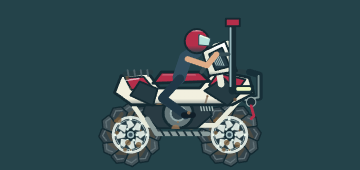
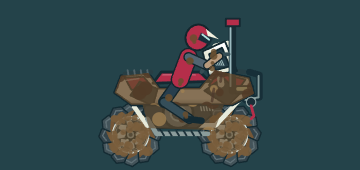
m

Changed region(s): [[0.275, 0.1471, 0.7028, 0.9412]]

diff --git a/assets/games/mudline/game.js b/assets/games/mudline/game.js
@@ -16,7 +16,10 @@
     { id: 'pearl', name: 'Pearl on Chrome', body: '#f4f4dd', trim: '#be4b4b', rim: '#e2eced', frame: '#d2dfe1', lift: 1.15, length: 135, mass: 6.1, snorkel: true },
     { id: 'violet', name: 'Violet Highrise', body: '#f2f2ec', trim: '#7654bc', rim: '#9571d6', frame: '#7654bc', lift: 1.2, length: 138, mass: 6.3, snorkel: true },
     { id: 'silverback', name: 'Silverback Lift', body: '#dce6df', trim: '#263b3e', rim: '#37484a', frame: '#d2ddd7', lift: 1.2, length: 139, mass: 6.8, snorkel: true },
-    { id: 'paddle', name: 'Paddle Monster', body: '#ebebe0', trim: '#303f41', rim: '#e6e9df', frame: '#e7e9df', lift: 1.3, length: 145, mass: 7.1, snorkel: true, disc: true }
+    { id: 'paddle', name: 'Paddle Monster', body: '#ebebe0', trim: '#303f41', rim: '#e6e9df', frame: '#e7e9df', lift: 1.3, length: 145, mass: 7.1, snorkel: true, disc: true },
+    { id: 'volt-mx', name: 'Volt MX', body: '#eeeae3', trim: '#d85244', rim: '#b8c4c7', frame: '#84969c', lift: .6, length: 140, mass: 4.5, bike: true },
+    { id: 'flux-trail', name: 'Flux Trail', body: '#273a43', trim: '#b8ce73', rim: '#b5bec3', frame: '#344d59', lift: .52, length: 124, mass: 3.8, bike: true },
+    { id: 'tundra', name: 'Tundra Snowmobile', body: '#e6edf0', trim: '#de704a', rim: '#a5babf', frame: '#8ca4ad', lift: .6, length: 180, mass: 7.5, snow: true }
   ];
   const defaults = { vehicle: 'highwater', power: 110, spring: 55, damping: 55, lift: 52, radius: 34, snorkel: 75, tires: 'mud', assist: true };
   const saved = read('mudline-tune-v1', {});
@@ -43,6 +46,7 @@
   let customMaps = read('mudline-maps-v1', []);
   customMaps = Array.isArray(customMaps) ? customMaps.filter(validMap).slice(0,20) : [];
   let map = makeMap('bog'), engine, chassis, wheels = [], springs = [], particles = [];
+  let rider;const remoteRiders=new Map();
   let endless=false,endlessLead=0,streamed=new Map(),lastStream=-999,flood=0,stalled=false,intakeClearance=999;
   const endlessSample=i=>MudEndless.sample(Math.max(0,i-endlessLead));
   let bestEndless=Number(read('mudline-endless-best-v1',0))||0;
@@ -79,7 +83,9 @@
     $('mapLabel').textContent = map.name;
   }
   function spawn(x) {
+    rider=MudRider.create();remoteRiders.clear();
     const v = rig(), r = tune.radius, lift = tune.lift * v.lift;
+    MudAudio.setVehicle(v.bike?'electric':v.snow?'snow':'atv');
     const y = terrainY(x) - r - lift - 15;
     const group = Body.nextGroup(true);
     chassis = Bodies.rectangle(x, y, v.length, 27, { chamfer: { radius: 9 }, friction: .5, frictionAir: .003, collisionFilter: { group }, label: 'chassis' });
@@ -103,17 +109,18 @@
   function simulate() {
     if(MudMultiplayer.blocked())release();
     if(endless)streamTerrain(chassis.position.x);
-    const intake=MudEndless.intake(chassis.position,chassis.angle,tune.snorkel,rig().length,rig().sxs),level=fluidLevel(intake.x);
+    const intake=MudEndless.intake(chassis.position,chassis.angle,rig().bike?30:rig().snow?55:tune.snorkel,rig().length,rig().sxs),level=fluidLevel(intake.x);
     intakeClearance=level===null?999:level-intake.y;
     flood=clamp(flood+(intakeClearance<0?.018:-.009),0,1);
-    if(flood>=1&&!stalled){stalled=true;toast('Engine flooded. Recover to the last dry checkpoint.');}
+    if(flood>=1&&!stalled){stalled=true;toast(rig().bike?'Water ingress. Recover the bike.':'Engine flooded. Recover to the last dry checkpoint.');}
     const gas = inputs.gas&&!stalled ? 1 : 0;
     const reverse = inputs.brake && !stalled && chassis.velocity.x < .6 ? -.45 : 0;
     const power = tune.power / 110, type = surfaceAt(chassis.position.x);
     const contacts = wheels.map(groundContact);
     wheels.forEach((wheel, i) => {
       const material = surfaceAt(wheel.position.x), grip = tune.tires === 'mud' ? { trail:1, mud:.85, water:.65, sand:.55 } : tune.tires === 'paddle' ? { trail:.65, mud:.95, water:.85, sand:1 } : { trail:1.15, mud:.32, water:.3, sand:.55 };
-      const drive = (gas + reverse)*(MudMultiplayer.controls().awd||i===0?1:0)*(MudMultiplayer.controls().diff?1.08:1);
+      const singleDrive=rig().bike||rig().snow;
+      const drive = (gas + reverse)*(singleDrive?(i===0?1.7:0):(MudMultiplayer.controls().awd||i===0?1:0))*(MudMultiplayer.controls().diff?1.08:1);
       if (contacts[i]) {
         Body.applyForce(wheel, wheel.position, { x: drive * .006 * power * grip[material] * (34 / tune.radius), y: 0 });
         Body.setAngularVelocity(wheel, clamp(wheel.angularVelocity + drive * .016 * power, -.3, .7));
@@ -125,12 +132,13 @@
       if (contacts[i]) Body.applyForce(wheel, wheel.position, { x: -wheel.velocity.x * drag, y: 0 });
       wheel.friction = grip[material];
       const spin=Math.abs(wheel.angularVelocity)*tune.radius;
-      if(contacts[i]&&(Math.abs(wheel.velocity.x)>.3||spin>1)&&stepCount%2===0){
-        const muddy=material==='mud',wet=material==='water',count=muddy?5:wet?4:2;
+      if((contacts[i]||immersion>.15)&&(Math.abs(wheel.velocity.x)>.3||spin>1)){
+        const muddy=material==='mud',wet=material==='water',count=muddy?12:wet?18:2;
         const direction=wheel.velocity.x<-.1?-1:1;
-        for(let j=0;j<count;j++)particles.push({x:wheel.position.x-direction*tune.radius*.65,y:wheel.position.y+tune.radius*.55,vx:-direction*(2+Math.random()*5+spin*.22),vy:-2-Math.random()*(muddy?8:5)-spin*.12,life:45+Math.random()*20,maxLife:65,size:muddy?2+Math.random()*5:1+Math.random()*3,material});
-        if(muddy)dirt[tune.vehicle]=clamp(dirt[tune.vehicle]+.0025+spin*.00009,0,1);
-        if(wet)dirt[tune.vehicle]=Math.max(0,dirt[tune.vehicle]-.003);
+        const sprayY=immersion>.15?Math.min(wheel.position.y+tune.radius*.5,fluidLevel(wheel.position.x)+10):wheel.position.y+tune.radius*.55;
+        for(let j=0;j<count;j++)particles.push({x:wheel.position.x-direction*tune.radius*.65+(Math.random()-.5)*14,y:sprayY,vx:-direction*(3+Math.random()*8+spin*.35),vy:-3-Math.random()*(muddy?12:16)-spin*.2,life:50+Math.random()*25,maxLife:75,size:muddy?3+Math.random()*7:1+Math.random()*4,material});
+        if(muddy)dirt[tune.vehicle]=clamp(dirt[tune.vehicle]+.012+spin*.0005,0,1);
+        if(wet)dirt[tune.vehicle]=Math.max(0,dirt[tune.vehicle]-.0008);
         if(material==='sand')dirt[tune.vehicle]=clamp(dirt[tune.vehicle]+.0004,0,1);
       }
     });
@@ -143,9 +151,10 @@
     if (inputs.down || (inputs.brake && !reverse)) chassis.torque += .9;
     if (type === 'water') Body.applyForce(chassis, chassis.position, { x: -chassis.velocity.x * .0005, y: -.001 });
     const bodyLevel=fluidLevel(chassis.position.x);
-    if(bodyLevel!==null){const submerged=clamp((chassis.position.y+18-bodyLevel)/60,0,1);Body.applyForce(chassis,chassis.position,{x:-chassis.velocity.x*.0016*submerged,y:-chassis.mass*.00028*submerged});if(submerged>.1)dirt[tune.vehicle]=clamp(dirt[tune.vehicle]+.003,0,1);}
+    if(bodyLevel!==null){const submerged=clamp((chassis.position.y+18-bodyLevel)/60,0,1);Body.applyForce(chassis,chassis.position,{x:-chassis.velocity.x*.0016*submerged,y:-chassis.mass*.00028*submerged});if(submerged>.1&&type==='mud')dirt[tune.vehicle]=clamp(dirt[tune.vehicle]+.012,0,1);}
     Body.applyForce(chassis,chassis.position,MudMultiplayer.forces(chassis.position));
     Engine.update(engine, 1000/60);
+    rider.step({vx:chassis.velocity.x,vy:chassis.velocity.y,angle:chassis.angle});
     if (contacts[0] && !contacts[1] && chassis.angle < -.14 && chassis.angle > -1.5 && Math.abs(chassis.velocity.x) > .5) wheelieTime += 1/60;
     else { if (wheelieTime > bestWheelie) { bestWheelie = wheelieTime; write('mudline-best-v1', bestWheelie); } wheelieTime = 0; }
     if (chassis.position.x > checkpoint + 700 && type === 'trail' && Math.abs(chassis.angle) < .4) checkpoint = chassis.position.x;
@@ -153,7 +162,7 @@
     if (!endless && chassis.position.x > LENGTH - 220 && !finished) { finished = true; toast('TRAIL COMPLETE! Choose a new map or keep riding.'); }
     if(endless&&stepCount%120===0){bestEndless=Math.max(bestEndless,Math.round((chassis.position.x-180)/12));write('mudline-endless-best-v1',bestEndless);}
     if (Math.abs(chassis.angle) > 2 && stepCount % 180 === 0) toast('Rolled over? Use Recover to get back on the trail.');
-    if (particles.length > 320) particles.splice(0, particles.length - 320);
+    const particleLimit=width<740?700:1100;if(particles.length>particleLimit)particles.splice(0,particles.length-particleLimit);
     particles.forEach(p => { p.x += p.vx; p.y += p.vy; p.vx*=.99;p.vy += .24; p.life--;if(p.y>terrainY(p.x)){p.y=terrainY(p.x)+1;p.vx*=.45;p.vy=0;p.life-=2;} }); particles = particles.filter(p => p.life > 0);
     if(stepCount%120===0)write('mudline-dirt-v1',dirt);
     stepCount++;
@@ -207,20 +216,21 @@
     }
     line(c,[[-a+6,-16],[-a+24,-17]],'#ffffff70',2);
   }
-  function drawRig(c,v,bodyPosition,angle,wheelPositions,r,wheelAngles,remote=null) {
+  function drawRig(c,v,bodyPosition,angle,wheelPositions,r,wheelAngles,remote=null,riderPose=null) {
     const toWorld = p => Vector.add(bodyPosition,Vector.rotate(p,angle));
     wheelPositions.forEach((w,i) => {
       const anchor = toWorld({x:(i?1:-1)*v.length*.4,y:5});
       line(c,[[anchor.x,anchor.y],[w.x,w.y]],'#182f36',8);
       const dx=w.x-anchor.x,dy=w.y-anchor.y,len=Math.hypot(dx,dy), nx=-dy/len,ny=dx/len;
       const zig=[[anchor.x,anchor.y]]; for(let s=1;s<10;s++) zig.push([anchor.x+dx*s/10+nx*(s%2?4:-4),anchor.y+dy*s/10+ny*(s%2?4:-4)]); zig.push([w.x,w.y]); line(c,zig,v.frame,3);
-      if(remote)MudModels.wheel(c,w.x,w.y,r,wheelAngles[i],v,remote.tires,remote.dirt);else wheelArt(c,w.x,w.y,r,wheelAngles[i],v);
+      if(!v.snow){if(remote)MudModels.wheel(c,w.x,w.y,r,wheelAngles[i],v,remote.tires,remote.dirt);else wheelArt(c,w.x,w.y,r,wheelAngles[i],v);}
     });
-    c.save();c.translate(bodyPosition.x,bodyPosition.y);c.rotate(angle);if(remote)MudModels.body(c,v,remote.dirt);else bodyArt(c,v);c.restore();
+    if(v.snow)MudModels.track(c,wheelPositions,r,angle,v,wheelAngles[0],remote?remote.dirt:dirt[v.id]||0);
+    c.save();c.translate(bodyPosition.x,bodyPosition.y);c.rotate(angle);if(remote)MudModels.body(c,v,remote.dirt);else bodyArt(c,v);MudRider.draw(c,riderPose,v,remote?remote.dirt:dirt[v.id]||0);c.restore();
   }
   function thumbnail(target,v) {
     target.width=360;target.height=170;const c=target.getContext('2d');c.fillStyle='#24434a';c.fillRect(0,0,360,170);
-    const scale=Math.min(v.sxs?1.1:1.25,145/(tune.snorkel+80));c.save();c.translate(180,160-59*scale);c.scale(scale,scale);drawRig(c,{...v,snorkelHeight:tune.snorkel},{x:0,y:0},0,[{x:-v.length*.4,y:32},{x:v.length*.4,y:32}],27,[0,0]);c.restore();
+    const scale=Math.min(v.sxs?1.1:1.25,145/((v.bike||v.snow?80:tune.snorkel)+80));c.save();c.translate(180,160-59*scale);c.scale(scale,scale);drawRig(c,{...v,snorkelHeight:tune.snorkel},{x:0,y:0},0,[{x:-v.length*.4,y:32},{x:v.length*.4,y:32}],27,[0,0]);c.restore();
   }
   function scenery() {
     const theme = mapInfo[map.theme];ctx.fillStyle=theme.sky;ctx.fillRect(0,0,width,height);
@@ -266,7 +276,7 @@
         for(let x=60;x<330;x+=85){line(ctx,[[x,478],[x+55,478]],'#eee3b3',3);circle(ctx,x+15,353,4,'#fff1a6');}
         if(MudMultiplayer.active())for(let x=360;x<1560;x+=180){line(ctx,[[x-65,478],[x+65,478]],'#eee3b3',3);line(ctx,[[x+85,478],[x+85,350]],'#b7c6b4',3);circle(ctx,x+85,346,5,'#fff1a6');}
       }
-      drawRig(ctx,rig(),chassis.position,chassis.angle,wheels.map(w=>w.position),tune.radius,wheels.map(w=>w.angle));
+      drawRig(ctx,rig(),chassis.position,chassis.angle,wheels.map(w=>w.position),tune.radius,wheels.map(w=>w.angle),null,rider.points());
       if(MudMultiplayer.controls().lights){ctx.fillStyle='#fff3a432';poly(ctx,[[chassis.position.x+60,chassis.position.y-10],[chassis.position.x+320,chassis.position.y-45],[chassis.position.x+320,chassis.position.y+60]],'#fff3a432',null);}
       MudMultiplayer.draw(ctx);
       if(endless)for(let i=start;i<end;i++){const s=at(i);if(s.level!==null){poly(ctx,[[i*STEP,s.level],[(i+1)*STEP,s.level],[(i+1)*STEP,at(i+1).height],[i*STEP,s.height]],s.material==='water'?'#4aa0b16b':'#715737a8',null);line(ctx,[[i*STEP+5,s.level+Math.sin(time*2+i)*2],[i*STEP+32,s.level]],s.material==='water'?'#a2dedb':'#a1895d',2);}}
@@ -286,9 +296,11 @@
   function openPanel(kind){if(MudMultiplayer.active()){toast('Leave the park before changing your build or map.');return;}release();activePanel=kind;$('panelTitle').textContent={garage:'The garage',maps:'Find your next trail',editor:'Build a trail'}[kind];$('panelEyebrow').textContent={garage:'EIGHT RIGS. YOUR BUILD.',maps:'MUD / WATER / SAND',editor:'MAP CREATOR'}[kind];if(kind==='garage')garage();if(kind==='maps')maps();if(kind==='editor')editorPanel();if(!panel.open)panel.showModal();icons();}
   function garage(){
     garageSnapshot={...tune};
+    $('panelEyebrow').textContent='ELEVEN BUILDS. YOUR RIDE.';
     $('panelContent').innerHTML=`<div class="garage"><div class="vehicle-grid">${vehicles.map(v=>`<button class="vehicle-card ${v.id===tune.vehicle?'selected':''}" data-vehicle="${v.id}"><canvas aria-label="${v.name}"></canvas><span>${v.name}</span></button>`).join('')}</div><div class="tuning"><h2 id="tuneName">${rig().name}</h2>${[['power','Engine power',60,200,'%'],['spring','Spring stiffness',15,95,'%'],['damping','Shock damping',10,90,'%'],['lift','Suspension lift',30,78,''],['radius','Wheel size',25,48,'in']].map(([id,label,min,max,unit])=>`<label><span>${label}<output id="out-${id}">${tune[id]}${unit}</output></span><input type="range" data-tune="${id}" data-unit="${unit}" min="${min}" max="${max}" value="${tune[id]}" aria-label="${label}"></label>`).join('')}<label><span>Tire type</span><select id="tireType"><option value="mud">Deep-lug mud tires</option><option value="paddle">Paddle tires</option><option value="trail">All-terrain tires</option></select></label><label class="check"><input id="assist" type="checkbox" ${tune.assist?'checked':''}>Assisted wheelies</label><button class="ride-button" id="applyTune"><i data-lucide="check"></i>Apply build & ride</button></div></div>`;
     document.querySelectorAll('[data-vehicle]').forEach(b=>{thumbnail(b.querySelector('canvas'),vehicles.find(v=>v.id===b.dataset.vehicle));b.onclick=()=>{tune.vehicle=b.dataset.vehicle;document.querySelectorAll('[data-vehicle]').forEach(el=>el.classList.toggle('selected',el===b));$('tuneName').textContent=rig().name;};});
     const snorkel=document.createElement('label');snorkel.innerHTML=`<span>Snorkel height<output id="out-snorkel">${tune.snorkel}</output></span><input type="range" data-tune="snorkel" data-unit="" min="45" max="180" value="${tune.snorkel}" aria-label="Snorkel height">`;document.querySelector('.tuning').insertBefore(snorkel,$('tireType').parentElement);
+    const intakeControl=()=>{snorkel.hidden=!!(rig().bike||rig().snow);};document.querySelectorAll('[data-vehicle]').forEach(b=>b.addEventListener('click',intakeControl));intakeControl();
     document.querySelectorAll('[data-tune]').forEach(el=>el.oninput=()=>{tune[el.dataset.tune]=Number(el.value);$('out-'+el.dataset.tune).textContent=el.value+el.dataset.unit;if(el.dataset.tune==='snorkel')document.querySelectorAll('[data-vehicle]').forEach(b=>thumbnail(b.querySelector('canvas'),vehicles.find(v=>v.id===b.dataset.vehicle)));});
     const wash=document.createElement('button');wash.textContent='Wash vehicle';wash.className='ride-button';wash.onclick=()=>{dirt[tune.vehicle]=0;write('mudline-dirt-v1',dirt);document.querySelectorAll('[data-vehicle]').forEach(b=>thumbnail(b.querySelector('canvas'),vehicles.find(v=>v.id===b.dataset.vehicle)));toast('Washed and ready');};document.querySelector('.tuning').append(wash);
     $('tireType').value=tune.tires;$('tireType').onchange=e=>tune.tires=e.target.value;$('assist').onchange=e=>tune.assist=e.target.checked;
@@ -336,8 +348,8 @@
     snapshot:controls=>({x:chassis.position.x,y:chassis.position.y,angle:chassis.angle,vx:chassis.velocity.x,vy:chassis.velocity.y,wheels:wheels.map(w=>({x:w.position.x,y:w.position.y,angle:w.angle})),throttle:inputs.gas,braking:inputs.brake,...controls,stalled,dirt:dirt[tune.vehicle],terrain:surfaceAt(chassis.position.x)}),
     enter:(kind,x=180)=>{endless=kind==='endless';endlessLead=27;map=makeMap(endless?'bog':kind);if(endless)map.name='Endless Backcountry';else for(let i=0;i<38;i++){map.heights[i]=480+(map.heights[i]-480)*clamp((i-32)/6,0,1);map.surfaces[i]='trail';}editing=false;paused=false;checkpoint=180;$('editorBar').hidden=true;$('driveControls').hidden=false;$('balance').hidden=false;release();createWorld(x);},
     exit:()=>{release();},
-    drawRemote:(c,build,s)=>{const v={...vehicles.find(v=>v.id===build.vehicle),snorkelHeight:build.snorkel};drawRig(c,v,s,s.angle,s.wheels,build.radius,s.wheels.map(w=>w.angle),{tires:build.tires,dirt:s.dirt});}
+    drawRemote:(c,build,s,id)=>{const v={...vehicles.find(v=>v.id===build.vehicle),snorkelHeight:build.snorkel},now=performance.now();let puppet=remoteRiders.get(id);if(!puppet){puppet={rig:MudRider.create(),at:now};remoteRiders.set(id,puppet);}puppet.rig.step(s,(now-puppet.at)/1000);puppet.at=now;for(const [key,p]of remoteRiders)if(now-p.at>5000)remoteRiders.delete(key);drawRig(c,v,s,s.angle,s.wheels,build.radius,s.wheels.map(w=>w.angle),{tires:build.tires,dirt:s.dirt},puppet.rig.points());}
   });
   addEventListener('resize',resize);resize();createWorld();icons();requestAnimationFrame(loop);
-  window.mudline = { state:()=>({x:chassis.position.x,y:chassis.position.y,angle:chassis.angle,speed:chassis.velocity.x,vehicle:tune.vehicle,dirt:dirt[tune.vehicle],particles:particles.length,muted:MudAudio.isMuted(),tune:{...tune},editing,paused,endless,flood,stalled,intakeClearance,groundBodies:streamed.size,map:map.name,savedMaps:customMaps.length,terrain:map.heights.slice(),surfaces:map.surfaces.slice(),wheels:wheels.map(w=>({x:w.position.x,y:w.position.y}))}), vehicles, thumbnail };
+  window.mudline = { state:()=>({x:chassis.position.x,y:chassis.position.y,angle:chassis.angle,speed:chassis.velocity.x,vehicle:tune.vehicle,rider:rider.points(),dirt:dirt[tune.vehicle],particles:particles.length,muted:MudAudio.isMuted(),tune:{...tune},editing,paused,endless,flood,stalled,intakeClearance,groundBodies:streamed.size,map:map.name,savedMaps:customMaps.length,terrain:map.heights.slice(),surfaces:map.surfaces.slice(),wheels:wheels.map(w=>({x:w.position.x,y:w.position.y}))}), vehicles, thumbnail };
 })();

diff --git a/assets/games/mudline/models.js b/assets/games/mudline/models.js
@@ -5,8 +5,38 @@ window.MudModels = (() => {
   function line(c,p,color,w){c.beginPath();p.forEach(([x,y],i)=>i?c.lineTo(x,y):c.moveTo(x,y));c.strokeStyle=color;c.lineWidth=w;c.lineJoin='round';c.lineCap='round';c.stroke();}
   function disc(c,x,y,r,color,stroke,w=2){c.beginPath();c.arc(x,y,r,0,Math.PI*2);c.fillStyle=color;c.fill();if(stroke){c.strokeStyle=stroke;c.lineWidth=w;c.stroke();}}
   function shade(c,color,y1,y2){const g=c.createLinearGradient(0,y1,0,y2);g.addColorStop(0,'#ffffff');g.addColorStop(.18,color);g.addColorStop(.72,color);g.addColorStop(1,'#31444c');return g;}
-  function stains(c,shape,amount,seed=0){if(amount<.01)return;c.save();c.beginPath();shape.forEach(([x,y],i)=>i?c.lineTo(x,y):c.moveTo(x,y));c.closePath();c.clip();for(let i=0;i<90*amount;i++){const x=Math.sin(i*173.3+seed)*105,y=Math.cos(i*92.1)*38-8;disc(c,x,y,1+(i%5)*.85,i%3?'#66503ce0':'#987555d9');if(i%6===0)line(c,[[x,y],[x-2,y+7]],'#66503c99',2);}c.restore();}
+  function stains(c,shape,amount,seed=0){if(amount<.01)return;c.save();c.beginPath();shape.forEach(([x,y],i)=>i?c.lineTo(x,y):c.moveTo(x,y));c.closePath();c.clip();c.fillStyle=`rgba(100,74,43,${amount*.76})`;c.fillRect(-160,-150,320,250);for(let i=0;i<180*amount;i++){const x=Math.sin(i*173.3+seed)*130,y=Math.cos(i*92.1)*65-15;disc(c,x,y,2+(i%7)*1.1,i%3?'#513b27de':'#a08052cb');if(i%5===0)line(c,[[x,y],[x-2,y+13]],'#4e392bbc',3);}c.restore();}
+  function bike(c,v,dirt){
+    const a=v.length/2;
+    line(c,[[-a*.8,30],[-22,7],[23,18],[a*.77,30]],'#96a6a7',5);
+    line(c,[[-25,-20],[-36,17],[15,22],[28,-38],[-25,-20],[15,22]],v.frame,6);
+    path(c,[[-19,-19],[20,-30],[13,10],[-14,8]],shade(c,'#384750',-30,20));
+    for(let i=0;i<6;i++)line(c,[[-14,-12+i*3],[8,-15+i*3]],'#7a8c90',1);
+    disc(c,-6,17,11,'#465a62',ink,2);disc(c,-6,17,5,'#93a4a5');
+    line(c,[[24,-35],[a*.8,29]],'#d4ddda',5);line(c,[[31,-18],[a*.8,29]],'#9daeb0',2);
+    line(c,[[25,-34],[28,-53],[43,-54]],'#435d67',4);
+    const shell=[[-a,-24],[-a+10,-33],[-13,-31],[15,-43],[31,-36],[24,-13],[-6,-17],[-26,-23]];
+    path(c,shell,shade(c,v.body,-45,-10),ink,2);path(c,[[-15,-28],[12,-40],[23,-33],[15,-18]],v.trim);
+    path(c,[[-a+9,-33],[-15,-35],[-8,-29],[-a+4,-26]],'#182d35');
+    path(c,[[27,-31],[a+5,-27],[a+16,-21],[a-6,-20],[31,-23]],v.body);
+    line(c,[[-a*.75,25],[-6,17]],'#171f23',2);line(c,[[-a*.75,30],[-6,24]],'#7a898c',1);
+    line(c,[[-10,27],[3,27]],'#c0cac5',4);path(c,[[28,-47],[43,-46],[43,-36],[31,-36]],v.body);
+    stains(c,shell,dirt,v.length);stains(c,[[-35,-10],[28,-16],[30,29],[-35,30]],dirt,3);
+  }
+  function snow(c,v,dirt){
+    const shell=[[-92,-13],[-83,-31],[-27,-32],[0,-55],[55,-48],[90,-17],[75,-4],[-65,8]];
+    line(c,[[-81,16],[40,16],[76,29]],'#778f98',5);
+    path(c,shell,shade(c,v.body,-57,10),ink,3);
+    path(c,[[-78,-31],[-25,-35],[5,-29],[-8,-16],[-77,-17]],'#1d3039');
+    path(c,[[3,-49],[19,-71],[35,-67],[39,-44]],'#8ec6cf99','#76959a',2);
+    path(c,[[14,-40],[57,-40],[78,-19],[46,-12]],v.trim);
+    for(let i=0;i<5;i++)line(c,[[23+i*6,-33],[34+i*6,-21]],'#263e46',3);
+    line(c,[[54,-36],[70,-28]],'#fff3b9',5);line(c,[[-1,-39],[2,-53],[18,-54]],'#253e49',4);
+    stains(c,shell,dirt,7);
+  }
   function body(c,v,dirt=0){
+    if(v.bike)return bike(c,v,dirt);
+    if(v.snow)return snow(c,v,dirt);
     const a=v.length/2;
     const shell=[[-a-4,-13],[-a+3,-31],[-a+32,-34],[-22,-18],[21,-18],[a-29,-37],[a+8,-29],[a+13,-12],[a-10,0],[-a+14,0]];
     // Chassis, exposed engine, radiator and footboards.
@@ -46,7 +76,6 @@ window.MudModels = (() => {
     if(v.sxs){
       path(c,[[-a+12,-17],[-a+18,-89],[a-25,-89],[a-7,-15]],'#91cfd334',null);
       path(c,[[12,-21],[12,-49],[34,-52],[38,-17]],'#1c303b');
-      line(c,[[25,-40],[36,-56],[49,-48]],'#dfb291',5);disc(c,36,-66,10,v.trim,ink);path(c,[[39,-70],[47,-68],[45,-61],[38,-62]],'#bfdeda',null);
       line(c,[[-a+7,-9],[-a+15,-91],[a-26,-91],[a-6,-10]],v.frame,7);
       line(c,[[-18,-88],[-16,-8]],v.frame,5);
       line(c,[[-a+10,-13],[-a+55,-86]],'#368989',3);
@@ -60,10 +89,6 @@ window.MudModels = (() => {
     }else{
       if(v.backrest)line(c,[[-32,-29],[-40,-60],[-52,-60]],'#21363f',10);
       line(c,[[23,-35],[36,-54],[52,-54]],'#364d54',4);
-      line(c,[[-1,-29],[6,-50],[17,-57]],'#314f60',14);line(c,[[8,-49],[29,-42],[39,-54]],'#dfad87',6);
-      line(c,[[0,-28],[-19,-7],[6,11]],'#203847',9);line(c,[[4,11],[14,11]],'#101e28',6);
-      disc(c,18,-68,13,shade(c,v.trim,-82,-56),ink,2);
-      path(c,[[20,-75],[33,-71],[31,-63],[20,-64]],'#b7e3dd','#28434d',1);line(c,[[22,-74],[30,-71]],'#f4ffea',1.5);
     }
     line(c,[[-a+8,-26],[-a+22,-28]],'#ffffffa0',1.5);
     stains(c,shell,dirt,v.length);
@@ -71,6 +96,7 @@ window.MudModels = (() => {
     if(v.sxs)stains(c,[[-a+17,-33],[a-18,-33],[a-9,-6],[-a+10,-6]],dirt,2);
   }
   function wheel(c,x,y,r,angle,v,tire,dirt){c.save();c.translate(x,y);c.rotate(angle);
+    if(v.bike){disc(c,0,0,r,'#1a262b',ink,2);for(let i=0;i<28;i++){c.save();c.rotate(i*Math.PI/14);line(c,[[-2,-r],[2,-r]],dirt>.3?'#7d5c36':'#455259',4);line(c,[[0,-5],[0,-r*.79]],'#b3c0c1',.8);c.restore();}disc(c,0,0,r*.8,'#00000000','#95a7a8',2);disc(c,0,0,6,v.rim,ink,1);if(dirt>.1){c.strokeStyle=`rgba(126,93,53,${dirt*.8})`;c.lineWidth=r*.22;c.beginPath();c.arc(0,0,r*.85,0,Math.PI*2);c.stroke();}c.restore();return;}
     const g=c.createRadialGradient(-r*.3,-r*.4,2,0,0,r);g.addColorStop(0,'#58676c');g.addColorStop(.68,'#26353d');g.addColorStop(1,'#111f28');disc(c,0,0,r,g,ink,2);
     const n=tire==='paddle'?9:tire==='mud'?12:20;
     for(let i=0;i<n;i++){c.save();c.rotate(i/n*Math.PI*2);path(c,[[-8,-r+8],[-9,-r-2],[-2,-r-7],[6,-r-4],[9,-r+5],[2,-r+10]],i%2?'#34444b':'#435359',ink,1.5);line(c,[[-6,-r+1],[-1,-r-3],[5,-r]],'#617177',1.4);if(dirt>.08)line(c,[[-5,-r+7],[3,-r+3]],`rgba(116,86,54,${dirt})`,4);c.restore();}
@@ -78,8 +104,15 @@ window.MudModels = (() => {
     for(let i=0;i<8;i++){c.save();c.rotate(i*Math.PI/4);if(!v.disc){path(c,[[-3,-5],[-5,-r*.54],[0,-r*.6],[5,-10]],shade(c,v.rim,-r,0),ink,.6);line(c,[[0,-r*.53],[1,-12]],'#e6f7ec',1);}disc(c,0,-r*.63,1.4,'#ecf7ee');c.restore();}
     disc(c,0,0,r*.18,'#a5bec0',ink,2);disc(c,0,0,r*.08,'#354d58');
     for(let i=0;i<6;i++)disc(c,Math.cos(i*Math.PI/3)*r*.25,Math.sin(i*Math.PI/3)*r*.25,1.4,'#dceee6');
-    if(dirt>0)for(let i=0;i<dirt*22;i++)disc(c,Math.sin(i*17)*r*.6,Math.cos(i*9)*r*.6,1+i%3,'#795d3bc9');
+    if(dirt>0){disc(c,0,0,r*.7,`rgba(103,75,41,${dirt*.68})`);for(let i=0;i<dirt*45;i++)disc(c,Math.sin(i*17)*r*.7,Math.cos(i*9)*r*.7,2+i%4,'#795d3bdb');}
     c.restore();
   }
-  return {body,wheel};
+  function track(c,positions,r,angle,v,spin,dirt){
+    c.save();c.translate(positions[0].x,positions[0].y);c.rotate(angle);
+    c.beginPath();c.roundRect(-50,-20,111,r+20,20);c.fillStyle='#1b282d';c.fill();c.strokeStyle=dirt>.2?'#816039':'#455b61';c.lineWidth=6;c.stroke();
+    for(let i=0;i<6;i++)disc(c,-36+i*16,r-15,9,'#354c56','#8c9fa1',2);
+    for(let i=0;i<14;i++){const x=-51+(i*9+spin*9)%117;line(c,[[x,r-2],[x+3,r+5]],dirt>.3?'#8b693c':'#506269',4);}c.restore();
+    c.save();c.translate(positions[1].x,positions[1].y);c.rotate(angle);line(c,[[0,-18],[8,r-2]],'#b4c4c2',5);line(c,[[-33,r-2],[32,r-2],[44,r-13]],v.trim,7);line(c,[[-30,r+1],[33,r+1]],'#192c33',3);c.restore();
+  }
+  return {body,wheel,track};
 })();

diff --git a/assets/games/mudline/rider.js b/assets/games/mudline/rider.js
@@ -1,0 +1,39 @@
+/* Cosmetic articulated Matter rig: it cannot destabilize the vehicle solver. */
+window.MudRider=(()=>{
+  const {Engine,Bodies,Body,Composite,Constraint}=Matter;
+  const rest=[{x:0,y:-27},{x:9,y:-51},{x:19,y:-72},{x:29,y:-42},{x:42,y:-52},{x:-17,y:-3},{x:10,y:15}];
+  function create(){
+    const engine=Engine.create({gravity:{x:0,y:0},constraintIterations:5});
+    const nodes=rest.map((p,i)=>{const b=Bodies.circle(p.x,p.y,i===2?10:4,{collisionFilter:{mask:0},frictionAir:.09});Body.setMass(b,.15);return b;});
+    const joints=[[0,1],[1,2],[1,3],[3,4],[0,5],[5,6]].map(([a,b])=>Constraint.create({bodyA:nodes[a],bodyB:nodes[b],length:Math.hypot(rest[a].x-rest[b].x,rest[a].y-rest[b].y),stiffness:.85,damping:.18}));
+    const anchors=[0,4,6].map(i=>Constraint.create({pointA:{...rest[i]},bodyB:nodes[i],length:0,stiffness:i===0?.35:.055,damping:.15}));
+    Composite.add(engine.world,[...nodes,...joints,...anchors]);let last={vx:0,vy:0,angle:0},accumulator=0;
+    return {points:()=>nodes.map(n=>({...n.position})),step(s,dt=1/60){
+      accumulator+=Math.min(.05,dt);const ax=Math.max(-8,Math.min(8,(s.vx||0)-last.vx)),ay=Math.max(-8,Math.min(8,(s.vy||0)-last.vy));
+      const pitch=Math.atan2(Math.sin(s.angle-last.angle),Math.cos(s.angle-last.angle));
+      while(accumulator>=1/60){
+        const loose=Math.abs(Math.sin(s.angle))>.7||Math.abs(pitch)>.1;
+        anchors[1].stiffness=loose?.006:.055;anchors[2].stiffness=loose?.008:.065;
+        for(const node of nodes){const fx=-ax*.00013+Math.sin(s.angle)*.00008-pitch*.0008,fy=-ay*.00013+Math.cos(s.angle)*.00008;Body.applyForce(node,node.position,{x:fx,y:fy});}
+        Engine.update(engine,1000/60);accumulator-=1/60;
+        for(let i=0;i<nodes.length;i++)if(!Number.isFinite(nodes[i].position.x)||Math.hypot(nodes[i].position.x,nodes[i].position.y)>155){Body.setPosition(nodes[i],rest[i]);Body.setVelocity(nodes[i],{x:0,y:0});}
+      }
+      last={vx:s.vx||0,vy:s.vy||0,angle:s.angle};
+    }};
+  }
+  function draw(c,points,v,dirt=0){
+    const p=points||rest;
+    const limb=(a,b,color,w)=>{c.beginPath();c.moveTo(p[a].x,p[a].y);c.lineTo(p[b].x,p[b].y);c.strokeStyle='#13262d';c.lineWidth=w+3;c.lineCap='round';c.stroke();c.strokeStyle=color;c.lineWidth=w;c.stroke();};
+    c.save();if(v.sxs)c.translate(14,-3);
+    limb(0,5,'#273e4d',10);limb(5,6,'#354e59',8);
+    limb(0,1,v.trim,17);limb(1,3,'#526571',8);limb(3,4,'#b79a7d',6);
+    c.strokeStyle='#132a33';c.lineWidth=7;c.beginPath();c.moveTo(p[6].x-3,p[6].y);c.lineTo(p[6].x+13,p[6].y+2);c.stroke();
+    const h=p[2];c.save();c.translate(h.x,h.y);c.rotate(Math.atan2(p[1].y-h.y,p[1].x-h.x)-Math.PI/2);
+    c.fillStyle=v.trim;c.strokeStyle='#13262d';c.lineWidth=2;c.beginPath();c.ellipse(0,0,13,14,0,0,Math.PI*2);c.fill();c.stroke();
+    c.fillStyle='#172e39';c.fillRect(1,-6,14,8);c.strokeStyle='#b4e2df';c.lineWidth=2;c.beginPath();c.moveTo(3,-5);c.lineTo(12,-3);c.stroke();
+    c.fillStyle=v.body;c.beginPath();c.moveTo(4,-12);c.lineTo(21,-8);c.lineTo(9,-6);c.fill();c.restore();
+    if(dirt>.1){c.fillStyle=`rgba(105,77,46,${dirt*.85})`;for(let i=0;i<14*dirt;i++){const q=p[i%p.length];c.beginPath();c.arc(q.x+Math.sin(i*9)*6,q.y+Math.cos(i*7)*5,2+i%3,0,Math.PI*2);c.fill();}}
+    c.restore();
+  }
+  return {create,draw};
+})();

diff --git a/assets/games/mudline/multiplayer.css b/assets/games/mudline/multiplayer.css
@@ -1,1 +1,3 @@
 #socialPanel{width:min(700px,calc(100% - 24px))}#socialPanel h1{font-size:24px}#socialError{color:#ffb6a5;font-size:13px}.park-menu{display:grid;grid-template-columns:1fr 1fr;gap:12px}.park-menu button{min-height:70px}.park-form{display:grid;grid-template-columns:1fr 1fr;gap:16px}.park-form label{display:grid;gap:8px;font-size:13px}.park-form input:not([type=checkbox]),#chatText{min-width:0;width:100%;padding:10px;background:#203d43;border:1px solid #718e8f;color:white;border-radius:4px}.park-form select{width:100%}.park-form .ride-button{grid-column:1/-1}.park-check{display:flex!important;flex-direction:row;align-items:center;gap:8px;font-size:13px}.park-check input{accent-color:#d9eb83;width:20px;height:20px}.park-actions{display:flex;flex-wrap:wrap;gap:8px;margin-bottom:16px}.rider-row{display:flex;flex-wrap:wrap;gap:6px;padding:14px 0;border-top:1px solid #44636a}.rider-row strong{flex-basis:100%;font-size:13px}.rider-row button{font-size:12px}.server-row{width:100%;margin:5px 0}.build-inspect{display:grid;grid-template-columns:1fr 1fr;gap:12px}.build-inspect dd{margin:0;color:#d9eb83}#activities{display:flex;gap:6px;flex-wrap:wrap}#parkPlayers{position:absolute;right:16px;top:120px;max-width:260px;background:#123239df;border-radius:6px;padding:8px}#parkPlayers button{font-size:12px;min-height:32px;padding:6px;background:transparent;border:0}#parkPlayers small{display:block;font-size:10px;max-height:45px;overflow:auto;color:#bdd7d0;padding:4px}#parkChat{position:absolute;left:16px;top:125px;width:240px;background:#123239d9;border-radius:6px;padding:8px}#chatLog{max-height:100px;overflow:auto;font-size:11px;line-height:1.5;overflow-wrap:anywhere}#chatForm{display:flex;gap:4px;margin-top:5px}#chatText{font-size:12px;touch-action:manipulation}#chatForm button{min-height:34px;padding:6px}#endlessMode{margin:0 0 16px}.hud nav button{flex-shrink:0}@media(max-width:740px){.telemetry small{display:none}.hud{gap:6px}.hud nav{gap:2px}.hud nav button{width:32px;padding:5px}#parkPlayers{top:104px;right:10px;max-width:180px}#parkChat{top:160px;width:200px;left:10px}#chatLog{max-height:60px}}@media(max-width:480px){#parkPlayers{top:139px;max-width:175px}#parkChat{top:214px;width:180px}.park-form{grid-template-columns:1fr}.park-menu{grid-template-columns:1fr 1fr}#socialPanel{padding:14px}}@media(max-height:520px){#parkChat{top:130px;width:180px}#chatLog{max-height:35px}#parkPlayers{top:104px;max-width:180px}}
+#parkPlayers output{display:block;font-size:10px;color:#e9d796;padding:4px;overflow-wrap:anywhere}
+@media(min-width:741px){.garage{grid-template-columns:minmax(0,1.35fr) minmax(260px,1fr)}.vehicle-grid{grid-template-columns:repeat(3,minmax(0,1fr));align-content:start}.vehicle-card canvas{height:auto;aspect-ratio:36/17}.vehicle-card span{min-height:28px;display:flex;align-items:center;text-align:center}.vehicle-card{justify-content:flex-start}}

diff --git a/assets/games/mudline/audio.js b/assets/games/mudline/audio.js
@@ -1,5 +1,6 @@
 window.MudAudio = (()=>{
   let context,master,engine,sub,filter,noise,terrainFilter,terrainGain;
+  let vehicle='atv';
   let muted=false;try{muted=localStorage.getItem('mudline-muted')==='1';}catch{}
   function start(){if(!context){
     const Audio=window.AudioContext||window.webkitAudioContext;if(!Audio)return;
@@ -10,7 +11,7 @@ window.MudAudio = (()=>{
     const buffer=context.createBuffer(1,context.sampleRate*2,context.sampleRate);const data=buffer.getChannelData(0);for(let i=0;i<data.length;i++)data[i]=Math.random()*2-1;
     noise=context.createBufferSource();noise.buffer=buffer;noise.loop=true;terrainFilter=context.createBiquadFilter();terrainFilter.type='bandpass';terrainFilter.Q.value=.6;terrainGain=context.createGain();terrainGain.gain.value=0;noise.connect(terrainFilter);terrainFilter.connect(terrainGain);terrainGain.connect(master);noise.start();
   }if(context.state==='suspended')context.resume().catch(()=>{});}
-  function update(speed,gas,material,running){if(!context)return;const t=context.currentTime;master.gain.setTargetAtTime(!muted&&running?.24:0,t,.08);const rpm=35+Math.min(Math.abs(speed),25)*3.2+(gas?44:0);engine.frequency.setTargetAtTime(rpm,t,.12);sub.frequency.setTargetAtTime(rpm*.5,t,.12);filter.frequency.setTargetAtTime(240+rpm*5,t,.1);terrainFilter.frequency.setTargetAtTime(material==='water'?900:material==='mud'?180:1800,t,.12);terrainGain.gain.setTargetAtTime(running?Math.min(Math.abs(speed)/20,.7)*(material==='trail'?.06:.3):0,t,.1);}
+  function update(speed,gas,material,running){if(!context)return;const t=context.currentTime,electric=vehicle==='electric';master.gain.setTargetAtTime(!muted&&running?(electric&&!gas&&Math.abs(speed)<.2?0:.24):0,t,.08);const rpm=electric?110+Math.min(Math.abs(speed),25)*15+(gas?130:0):35+Math.min(Math.abs(speed),25)*3.2+(gas?(vehicle==='snow'?65:44):0);engine.type=electric?'sine':'sawtooth';engine.frequency.setTargetAtTime(rpm,t,.12);sub.frequency.setTargetAtTime(rpm*.5,t,.12);filter.frequency.setTargetAtTime(240+rpm*5,t,.1);terrainFilter.frequency.setTargetAtTime(material==='water'?900:material==='mud'?180:1800,t,.12);terrainGain.gain.setTargetAtTime(running?Math.min(Math.abs(speed)/20,.7)*(material==='trail'?.06:.65):0,t,.1);}
   function toggle(){muted=!muted;try{localStorage.setItem('mudline-muted',muted?'1':'0');}catch{}start();return muted;}
-  return{start,update,toggle,isMuted:()=>muted,state:()=>({state:context?.state||'not-started',frequency:engine?.frequency.value||0,gain:master?.gain.value||0})};
+  return{start,update,toggle,setVehicle:kind=>vehicle=kind,isMuted:()=>muted,state:()=>({state:context?.state||'not-started',vehicle,frequency:engine?.frequency.value||0,gain:master?.gain.value||0})};
 })();

diff --git a/assets/games/mudline/index.html b/assets/games/mudline/index.html
@@ -9,5 +9,5 @@
 <div class="drive-controls" id="driveControls"><div class="left-controls"><button class="drive lean" data-control="up" aria-label="Lean back"><i data-lucide="move-up-left"></i><span>LEAN BACK</span></button><button class="drive lean" data-control="down" aria-label="Lean forward"><i data-lucide="move-down-right"></i><span>LEAN FORWARD</span></button><button class="drive wheelie" data-control="wheelie"><i data-lucide="bike"></i><span>WHEELIE</span></button></div><div class="pedals"><button class="drive brake" data-control="brake"><i data-lucide="octagon"></i><span>BRAKE / REV</span></button><button class="drive gas" data-control="gas"><i data-lucide="chevrons-up"></i><span>GAS</span></button></div></div>
 <div class="editor-bar" id="editorBar" hidden><select id="brush" aria-label="Brush"><option value="height">Terrain</option><option value="mud">Mud</option><option value="water">Pond</option><option value="sand">Sand</option><option value="trail">Dry trail</option></select><label>Size<input id="brushSize" type="range" min="1" max="8" value="3"></label><button id="undo" title="Undo stroke" aria-label="Undo stroke"><i data-lucide="undo-2"></i></button><label class="map-pan">Map position<input id="mapPan" type="range" min="0" max="6000" value="0"></label><button id="saveMap"><i data-lucide="save"></i>Save</button><button id="testMap"><i data-lucide="play"></i>Ride</button></div>
 <dialog id="panel"><header><div><small id="panelEyebrow">BUILD YOUR RIDE</small><h1 id="panelTitle">Garage</h1></div><button id="closePanel" title="Close" aria-label="Close"><i data-lucide="x"></i></button></header><div id="panelContent"></div></dialog>
-<script src="vendor/matter.min.js"></script><script src="vendor/lucide.min.js"></script><script src="models.js"></script><script src="audio.js"></script><script src="endless.js"></script><script src="multiplayer.js"></script><script src="game.js?v=multiplayer-1"></script>
+<script src="vendor/matter.min.js"></script><script src="vendor/lucide.min.js"></script><script src="models.js"></script><script src="rider.js"></script><script src="audio.js"></script><script src="endless.js"></script><script src="multiplayer.js"></script><script src="game.js?v=spray-riders-2"></script>
 </body></html>

diff --git a/assets/games/mudline/multiplayer.js b/assets/games/mudline/multiplayer.js
@@ -148,10 +148,10 @@
     const now=Date.now()+clockOffset;
     for(const player of room.players){
       if(player.id===session.id)continue;const s=sample(player.id);if(!s)continue;
-      c.save();if(now-s.at>1500)c.globalAlpha=.4;game.drawRemote(c,player.build,s);
+      c.save();if(now-s.at>1500)c.globalAlpha=.4;game.drawRemote(c,player.build,s,player.id);
       if(s.lights){c.fillStyle='#fff3a42b';c.beginPath();c.moveTo(s.x+60,s.y-10);c.lineTo(s.x+320,s.y-45);c.lineTo(s.x+320,s.y+60);c.fill();}
       if(settings.names){c.font='bold 12px Arial';c.textAlign='center';c.fillStyle='#102e34';c.fillText(player.name,s.x,s.y-player.build.snorkel-38);}
-      if(s.throttle&&['mud','water','sand'].includes(s.terrain)&&samples.length<120){const wheel=s.wheels[0];samples.push({x:wheel.x,y:wheel.y+player.build.radius*.5,vx:-2-Math.random()*3,vy:-3-Math.random()*4,life:35,wet:s.terrain==='water'});}c.restore();
+      if(s.throttle&&['mud','water','sand'].includes(s.terrain)&&samples.length<300){const wheel=s.wheels[0];for(let i=0;i<6&&samples.length<300;i++)samples.push({x:wheel.x,y:wheel.y+player.build.radius*.5,vx:-3-Math.random()*8,vy:-4-Math.random()*11,life:40,wet:s.terrain==='water'});}c.restore();
     }
     for(const tow of room.tows){if(!tow.active)continue;const a=tow.a===session.id?game.snapshot(controls):sample(tow.a),b=tow.b===session.id?game.snapshot(controls):sample(tow.b);if(!a||!b)continue;c.strokeStyle=tow.kind==='strap'?'#ebbe65':'#aabdc0';c.lineWidth=3;c.beginPath();c.moveTo(a.x,a.y);c.quadraticCurveTo((a.x+b.x)/2,(a.y+b.y)/2+16,b.x,b.y);c.stroke();}
     for(const p of samples){p.x+=p.vx;p.y+=p.vy;p.vy+=.23;p.life--;c.globalAlpha=p.life/35;c.fillStyle=p.wet?'#96d6de':'#785535';c.fillRect(p.x,p.y,4,3);}c.globalAlpha=1;samples=samples.filter(p=>p.life>0);

diff --git a/lib/api/games/mudline.js b/lib/api/games/mudline.js
@@ -2,7 +2,7 @@ const crypto = require('node:crypto');
 const path = require('node:path');
 const { createMessengerStore } = require('../../messengerStore');
 
-const VEHICLES = ['highwater','redline','blackwater','tidal','pearl','violet','silverback','paddle'];
+const VEHICLES = ['highwater','redline','blackwater','tidal','pearl','violet','silverback','paddle','volt-mx','flux-trail','tundra'];
 const MAPS = ['bog','pond','dunes','endless'];
 const TTL = 20000;
 const fail = (message,status=400) => Object.assign(new Error(message),{status});
@@ -72,7 +72,7 @@ function createHandler({storage,now=Date.now}={}) {
         if(action==='create'||action==='join'){
           if(Object.keys(room.players).length>=room.max)throw fail('This lobby is full.',409);
           const custom=build(input.build);
-          if(room.restriction==='atv'&&custom.vehicle==='tidal'||room.restriction==='sxs'&&custom.vehicle!=='tidal')throw fail('Your vehicle does not match this lobby restriction. Change it in the garage.');
+          if(room.restriction==='atv'&&['tidal','volt-mx','flux-trail','tundra'].includes(custom.vehicle)||room.restriction==='sxs'&&custom.vehicle!=='tidal')throw fail('Your vehicle does not match this lobby restriction. Change it in the garage.');
           player={id,name:clean(input.username,20)||'Rider',auth:hash(token),build:custom,seen:time,joined:time,state:null,lastChat:0,lastRecover:0};room.players[id]=player;
         }else{
           player=room.players[input.id];if(!player||player.auth!==hash(input.token))throw fail('Session expired. Rejoin the lobby.',401);

diff --git a/assets/games/mudline/README.md b/assets/games/mudline/README.md
@@ -2,7 +2,11 @@
 
 A locally hosted, 2D off-road game made for Veloi. Open index.html through the existing server. No remote game provider or proxy is required.
 
-Eight original cartoon rigs are inspired by the user's ATV and side-by-side reference photographs. Artwork is drawn with Canvas, with separately animated wheels and suspension. These are stylized interpretations, not photo conversions or licensed manufacturer models.
+Eleven original rigs include the user's ATV/SXS reference-inspired builds, Volt MX (Stark Varg-inspired), Flux Trail (Sur-Ron-inspired), and Tundra Snowmobile. The new electric bikes have separate battery/frame/fork/swingarm details and spoked wheels; the snowmobile has an animated rear track and front ski. They use original unbranded artwork, not licensed manufacturer models. The snowmobile uses the existing two-contact arcade terrain solver, not a continuous-track simulation.
+
+Riders now use seven articulated Matter.js nodes with limb constraints and elastic seat/hand/foot anchors. Vehicle acceleration, pitch and impacts drive the cosmetic rig, with looser hands/feet during large tilts. This is a seated ragdoll, not a full rider-ejection system. Remote riders regenerate this effect from vehicle snapshots without extra network messages. Recovery rebuilds the rider, and its separate physics world cannot destabilize the vehicle suspension.
+
+Mud and water emission rates are substantially higher, with desktop/tablet particle counts capped at 1100 and narrow screens at 700. Remote spray has a shared 300-particle cap. Dirt reaches full coverage much faster and coats panels, rims, tires and rider clothing. Water slowly rinses it; the garage wash clears it. Electric bikes have a synthesized motor whine, and the snowmobile has a higher-rev engine tone.
 
 Matter.js 0.20.0 handles rigid-body collisions and suspension constraints. Terrain-specific traction and drag, adjustable engine power, spring stiffness, damping, lift, tire size and tire type affect driving. Wheelie assist uses damped pitch control; manual mode permits overturning. This is an arcade simulation, not an engineering vehicle simulator.
 
@@ -54,4 +58,5 @@ Server validation rejects malformed states, extreme speeds, large teleports, inv
 - node --test tests/mudline-api.test.cjs tests/messenger.test.cjs
 - tests/mudline-multiplayer.cjs uses Playwright and the real game/API with an isolated in-memory transactional test store. It starts its own temporary HTTP server and launches eight separate browser contexts, not NPCs. It checks actual cross-instance builds, wheels, movement, chat, consent-based line attachment, late joins, capacity, host departure, repeated rejoining and delayed/dropped HTTP updates.
 - tests/mudline-ui.cjs and tests/mudline-effects.cjs cover solo driving, touch layout, garage, maps, editing, sound and dirt against localhost:3020.
+- tests/mudline-riders.cjs covers all three new builds, constrained rider motion, heavy dirt/spray, garage availability and tablet layout.
 - The tests do not establish production Redis latency, real WAN/iPad performance, realistic multi-vehicle collision outcomes, or reliable stuck-vehicle recovery under poor network conditions. Those need broader playtesting before calling this production-ready.

diff --git a/assets/games/mudline/CHANGELOG.md b/assets/games/mudline/CHANGELOG.md
@@ -1,3 +1,10 @@
+# Heavy spray and articulated riders
+
+- Much denser mud/water spray with bounded particle counts and heavier persistent mud coating.
+- Original Volt MX and Flux Trail electric bike builds, plus Tundra Snowmobile with animated track/ski rendering.
+- Separate Matter.js rider ragdolls reacting to bumps, acceleration, pitch and rollovers, including remote riders.
+- Electric motor sounds, stronger terrain audio, and mixed-vehicle multiplayer validation.
+
 # Multiplayer foundation
 
 - Endless streamed bog terrain, adjustable snorkels and intake flooding.
